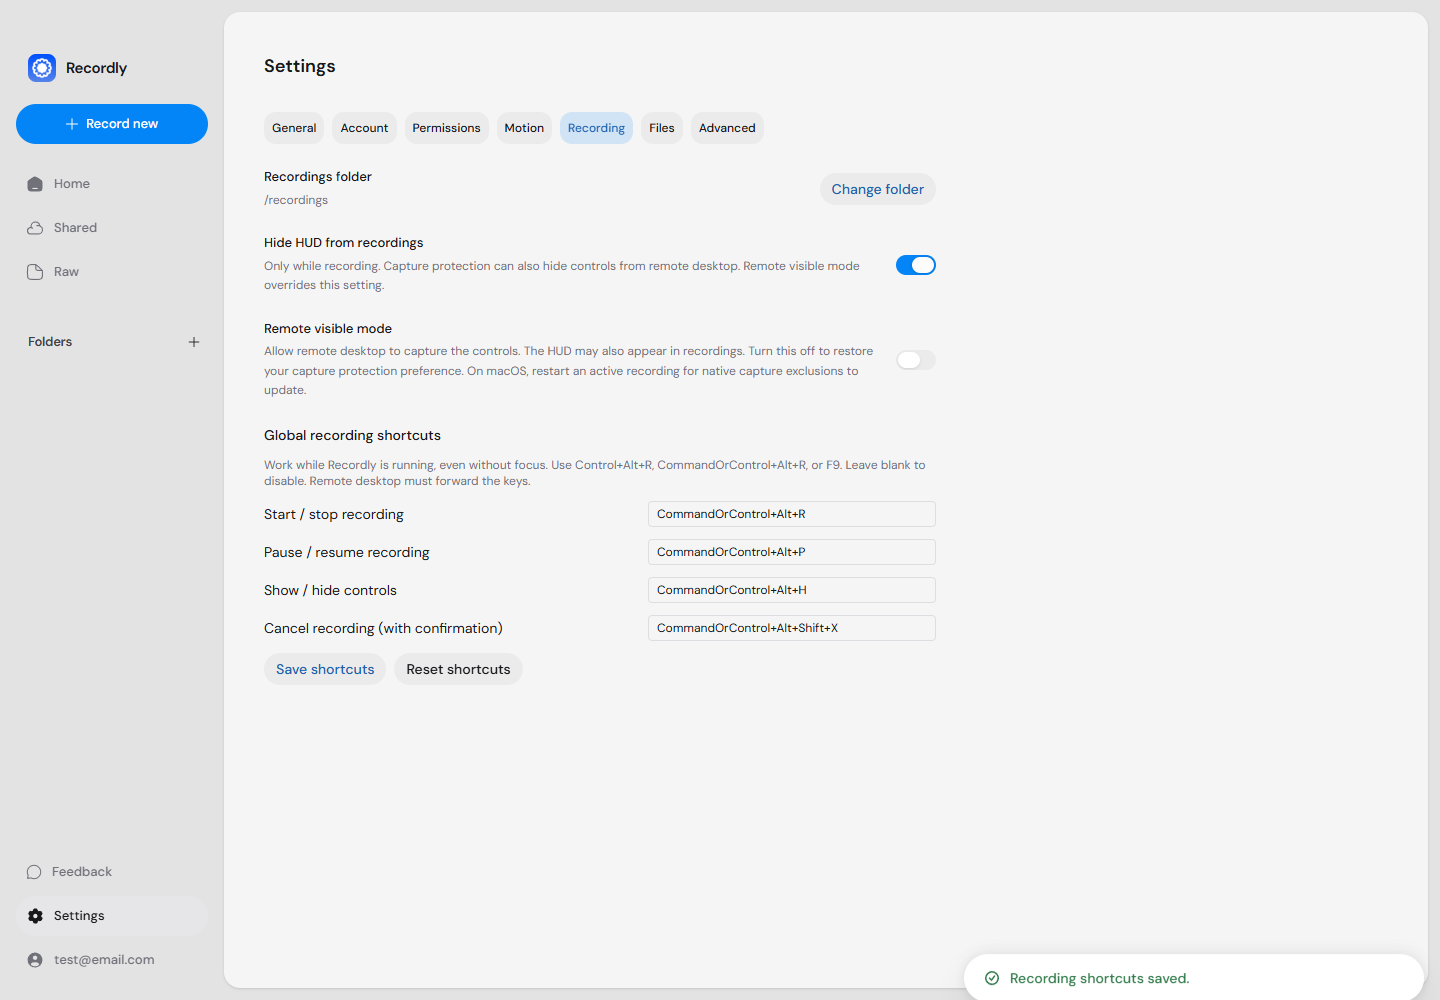
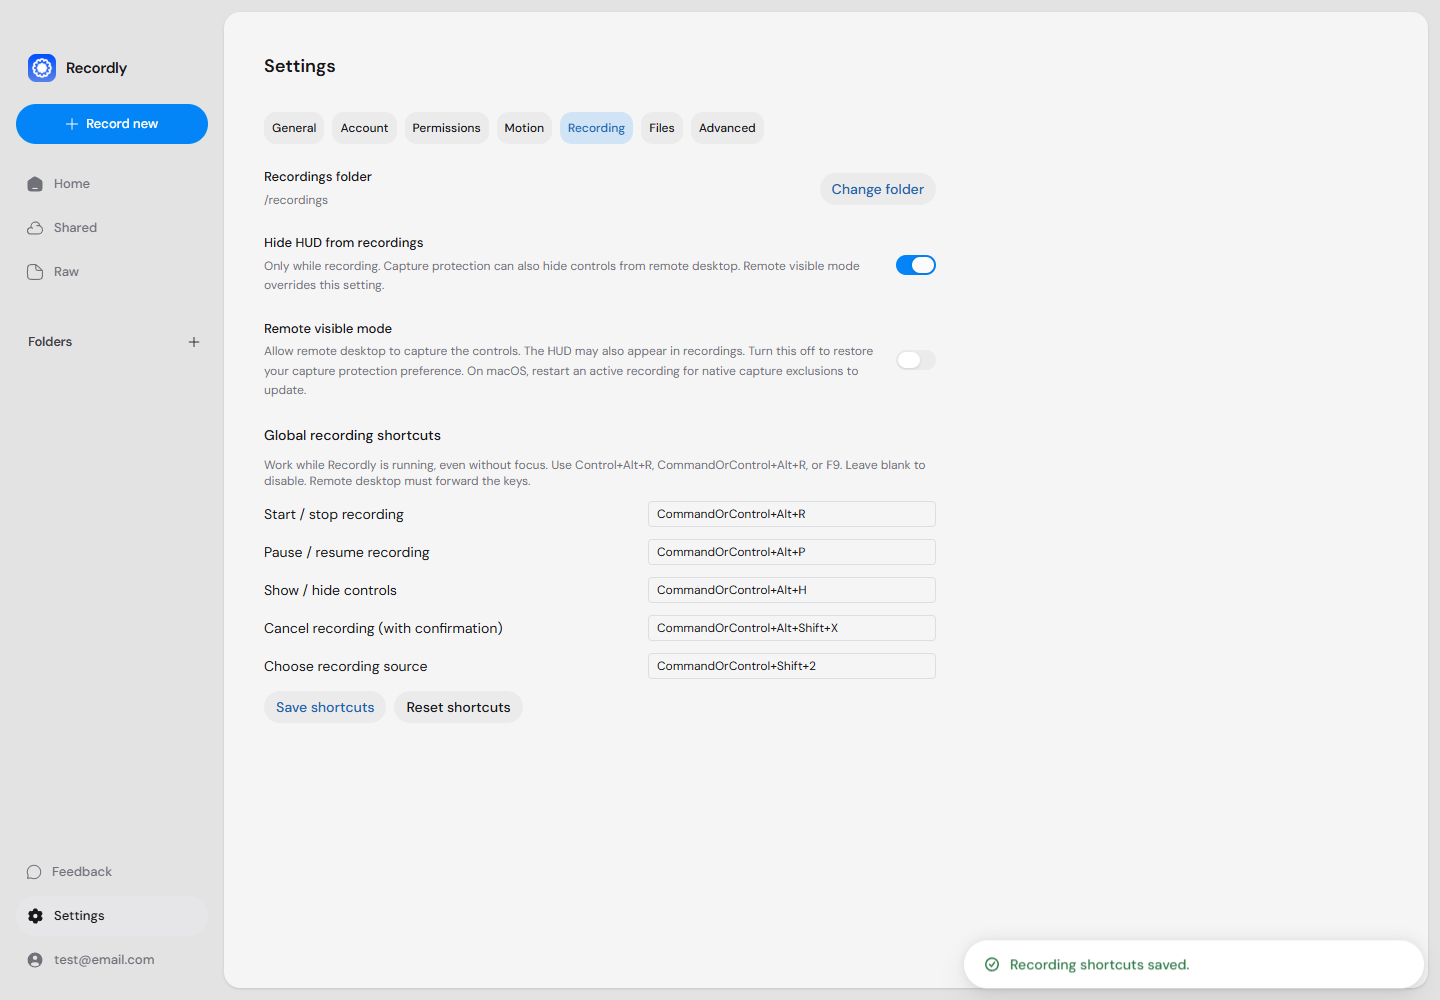
feat(recording): open the existing source picker with a global shortcut

Changed region(s): [[0.6562, 0.961, 1.0, 1.0], [0.1875, 0.651, 0.3438, 0.713], [0.4688, 0.651, 0.5625, 0.682]]

diff --git a/tests/ui/remote-recording.spec.ts b/tests/ui/remote-recording.spec.ts
@@ -1,5 +1,5 @@
 import { expect, type Page, test } from "@playwright/test";
-import { installDesktopBridge } from "./bridge";
+import { installDesktopBridge, installDesktopBridgeOverrides } from "./bridge";
 
 async function openRecordingSettings(page: Page) {
 	await page.getByRole("button", { name: "Home", exact: true }).click();
@@ -44,6 +44,9 @@ test("remote visible mode preserves protection preference and shortcut conflicts
 	await expect(settings.getByRole("switch", { name: "Hide HUD from recordings" })).toBeEnabled();
 	await expect(settings.getByRole("switch", { name: "Hide HUD from recordings" })).toBeChecked();
 	await settings.getByRole("button", { name: "Reset shortcuts" }).click();
+	await expect(settings.getByRole("textbox", { name: "Choose recording source" })).toHaveValue(
+		"CommandOrControl+Shift+2",
+	);
 	await expect(settings.getByRole("textbox", { name: "Start / stop recording" })).toHaveValue(
 		"CommandOrControl+Alt+R",
 	);
@@ -60,6 +63,10 @@ test("HUD shortcut events start, pause, resume and stop through existing capture
 			data[name] = String(Number(data[name] ?? 0) + 1);
 		};
 		Object.assign(window.electronAPI, {
+			pickCaptureTarget: async () => {
+				increment("pickerOpens");
+				return { success: false, canceled: true };
+			},
 			getCountdownDelay: async () => ({ success: true, delay: 0 }),
 			getRecordingPreferences: async () => ({
 				success: true,
@@ -96,10 +103,61 @@ test("HUD shortcut events start, pause, resume and stop through existing capture
 	await command("toggleRecording");
 	await expect(page.locator("html")).toHaveAttribute("data-capture-starts", "1");
 	await expect(page.getByRole("button", { name: "Pause", exact: true })).toBeVisible();
+	await command("openCapturePicker");
+	await expect(page.locator("html")).not.toHaveAttribute("data-picker-opens");
 	await command("togglePause");
 	await expect(page.getByRole("button", { name: "Resume", exact: true })).toBeVisible();
 	await command("togglePause");
 	await expect(page.getByRole("button", { name: "Pause", exact: true })).toBeVisible();
 	await command("toggleRecording");
 	await expect(page.locator("html")).toHaveAttribute("data-capture-stops", "1");
+});
+
+test("source shortcut reuses the source button, coalesces repeated input, and does not record", async ({
+	page,
+}) => {
+	await installDesktopBridge(page);
+	await installDesktopBridgeOverrides(page, () => {
+		window.electronAPI.getPlatform = async () => "win32";
+		window.electronAPI.pickCaptureTarget = async () => {
+			const data = document.documentElement.dataset;
+			data.pickerOpens = String(Number(data.pickerOpens ?? 0) + 1);
+			await new Promise<void>((resolve) =>
+				window.addEventListener("test-complete-picker", () => resolve(), { once: true }),
+			);
+			return {
+				success: true,
+				source: {
+					id: "screen:2:0",
+					name: "External display",
+					display_id: "2",
+					thumbnail: "",
+				},
+			};
+		};
+		window.electronAPI.startNativeScreenRecording = async () => {
+			throw new Error("Selecting must not start capture");
+		};
+	});
+	await page.goto("/?windowType=hud-overlay");
+	const sourceButton = page.getByRole("button", { name: "Choose recording source", exact: true });
+	await expect(sourceButton).toBeEnabled();
+	await page.evaluate(() =>
+		window.dispatchEvent(
+			new CustomEvent("test-recording-shortcut", { detail: "openCapturePicker" }),
+		),
+	);
+	await expect(page.locator("html")).toHaveAttribute("data-picker-opens", "1");
+	await page.evaluate(() => {
+		window.dispatchEvent(
+			new CustomEvent("test-recording-shortcut", { detail: "openCapturePicker" }),
+		);
+		window.dispatchEvent(
+			new CustomEvent("test-recording-shortcut", { detail: "toggleRecording" }),
+		);
+		window.dispatchEvent(new Event("test-complete-picker"));
+	});
+	await expect(sourceButton).toContainText("External display");
+	await expect(page.locator("html")).toHaveAttribute("data-picker-opens", "1");
+	await expect(page.getByRole("button", { name: "Record", exact: true })).toBeEnabled();
 });

diff --git a/src/components/launch/LaunchWindow.tsx b/src/components/launch/LaunchWindow.tsx
@@ -80,38 +80,6 @@ function LaunchWindowContent() {
 	} = useScreenRecorder();
 
 	const { elapsed, formatTime } = useRecordingTimer(recording, paused);
-	const shortcutInFlight = useRef(false);
-	useEffect(
-		() =>
-			window.electronAPI?.onRecordingShortcut?.((action) => {
-				if (shortcutInFlight.current || finalizing || countdownActive) return;
-				shortcutInFlight.current = true;
-				void (async () => {
-					try {
-						if (action === "toggleRecording") await toggleRecording();
-						else if (action === "togglePause" && recording) {
-							if (paused) await resumeRecording();
-							else await pauseRecording();
-						} else if (action === "cancelRecording" && recording)
-							await cancelRecording();
-					} catch (error) {
-						toast.error(String(error));
-					} finally {
-						shortcutInFlight.current = false;
-					}
-				})();
-			}),
-		[
-			recording,
-			paused,
-			finalizing,
-			countdownActive,
-			toggleRecording,
-			pauseRecording,
-			resumeRecording,
-			cancelRecording,
-		],
-	);
 	const hudContentRef = useRef<HTMLDivElement>(null);
 	const hudBarRef = useRef<HTMLDivElement>(null);
 
@@ -238,6 +206,41 @@ function LaunchWindowContent() {
 		beginInteractiveHudAction,
 		syncSelectedSource,
 	]);
+
+	const shortcutInFlight = useRef(false);
+	useEffect(
+		() =>
+			window.electronAPI?.onRecordingShortcut?.((action) => {
+				if (shortcutInFlight.current || finalizing || countdownActive) return;
+				shortcutInFlight.current = true;
+				void (async () => {
+					try {
+						if (action === "openCapturePicker") await handlePickOnScreen();
+						else if (action === "toggleRecording") await toggleRecording();
+						else if (action === "togglePause" && recording) {
+							if (paused) await resumeRecording();
+							else await pauseRecording();
+						} else if (action === "cancelRecording" && recording)
+							await cancelRecording();
+					} catch (error) {
+						toast.error(String(error));
+					} finally {
+						shortcutInFlight.current = false;
+					}
+				})();
+			}),
+		[
+			recording,
+			paused,
+			finalizing,
+			countdownActive,
+			handlePickOnScreen,
+			toggleRecording,
+			pauseRecording,
+			resumeRecording,
+			cancelRecording,
+		],
+	);
 
 	useEffect(() => {
 		let mounted = true;

diff --git a/electron/recordingShortcuts.test.ts b/electron/recordingShortcuts.test.ts
@@ -44,7 +44,7 @@ describe("recording shortcut lifecycle", () => {
 		mocks.register.mock.calls[1][1]();
 		expect(dispatch).toHaveBeenCalledWith("togglePause");
 		mocks.quit.mock.calls[0][1]();
-		expect(mocks.unregister).toHaveBeenCalledTimes(4);
+		expect(mocks.unregister).toHaveBeenCalledTimes(5);
 	});
 	it("reports OS conflicts without claiming success for unavailable keys", () => {
 		mocks.register.mockReturnValueOnce(false);
@@ -61,7 +61,7 @@ describe("recording shortcut lifecycle", () => {
 			}),
 		);
 		registerRecordingShortcuts(vi.fn());
-		expect(mocks.register).toHaveBeenCalledTimes(3);
+		expect(mocks.register).toHaveBeenCalledTimes(4);
 		expect(mocks.register).toHaveBeenCalledWith("F9", expect.any(Function));
 	});
 	it("leaves active bindings intact on invalid input or failed persistence", () => {
@@ -88,7 +88,7 @@ describe("recording shortcut lifecycle", () => {
 		const result = mocks.handlers.get("set-recording-shortcuts")!({}, settings);
 		expect(result).toMatchObject({ success: true, errors: [], settings });
 		expect(mocks.rename).toHaveBeenCalled();
-		expect(mocks.unregister).toHaveBeenCalledTimes(4);
+		expect(mocks.unregister).toHaveBeenCalledTimes(5);
 	});
 	it("does not silently enable defaults over a corrupt configuration", () => {
 		mocks.exists.mockReturnValue(true);

diff --git a/electron/recordingShortcutDispatch.test.ts b/electron/recordingShortcutDispatch.test.ts
@@ -18,6 +18,18 @@ function setup() {
 	return { hud, deps, dispatch: createRecordingShortcutDispatcher(deps) };
 }
 describe("global recording shortcut routing", () => {
+	it("restores the HUD and dispatches the existing source picker only while idle", async () => {
+		const { hud, deps, dispatch } = setup();
+		await dispatch("openCapturePicker");
+		expect(deps.showHud).not.toHaveBeenCalled();
+		deps.getRecordingSession.mockReturnValue(null);
+		await dispatch("openCapturePicker");
+		expect(deps.showHud).toHaveBeenCalledOnce();
+		expect(hud.webContents.send).toHaveBeenCalledWith(
+			"recording-shortcut",
+			"openCapturePicker",
+		);
+	});
 	it("sends commands to the capture owner while its HUD is hidden", async () => {
 		const { hud, dispatch } = setup();
 		await dispatch("toggleRecording");

diff --git a/src/lib/recordingShortcuts.ts b/src/lib/recordingShortcuts.ts
@@ -3,6 +3,7 @@ export const DEFAULT_RECORDING_SHORTCUTS = {
 	togglePause: "CommandOrControl+Alt+P",
 	toggleHud: "CommandOrControl+Alt+H",
 	cancelRecording: "CommandOrControl+Alt+Shift+X",
+	openCapturePicker: "CommandOrControl+Shift+2",
 };
 
 export type RecordingShortcutAction = keyof typeof DEFAULT_RECORDING_SHORTCUTS;
@@ -17,6 +18,7 @@ export const RECORDING_SHORTCUT_LABELS: Record<RecordingShortcutAction, string> 
 	togglePause: "Pause / resume recording",
 	toggleHud: "Show / hide controls",
 	cancelRecording: "Cancel recording (with confirmation)",
+	openCapturePicker: "Choose recording source",
 };
 
 // A deliberately small accelerator grammar makes configuration errors explicit.

diff --git a/electron/recordingShortcutDispatch.ts b/electron/recordingShortcutDispatch.ts
@@ -21,6 +21,10 @@ export function createRecordingShortcutDispatcher(deps: {
 			return;
 		}
 		if (confirming) return;
+		if (action === "openCapturePicker") {
+			if (deps.getRecordingSession() !== null) return;
+			deps.showHud();
+		}
 		if (action === "cancelRecording") {
 			const session = deps.getRecordingSession();
 			if (session === null) return;

diff --git a/tests/ui/bridge.ts b/tests/ui/bridge.ts
@@ -31,6 +31,7 @@ export async function installDesktopBridge(
 								togglePause: "CommandOrControl+Alt+P",
 								toggleHud: "CommandOrControl+Alt+H",
 								cancelRecording: "CommandOrControl+Alt+Shift+X",
+								openCapturePicker: "CommandOrControl+Shift+2",
 							}),
 					),
 					errors: [],

diff --git a/docs/remote-recording.md b/docs/remote-recording.md
@@ -25,10 +25,17 @@ before starting. Normal sign-in and capture permission requirements still apply.
 
 | Action | Windows / Linux default | macOS default |
 | --- | --- | --- |
+| Choose recording source | Ctrl+Shift+2 | Cmd+Shift+2 |
 | Start / stop recording | Ctrl+Alt+R | Cmd+Option+R |
 | Pause / resume | Ctrl+Alt+P | Cmd+Option+P |
 | Show / hide HUD | Ctrl+Alt+H | Cmd+Option+H |
 | Cancel and discard, with confirmation | Ctrl+Alt+Shift+X | Cmd+Option+Shift+X |
+
+The source shortcut restores the HUD and opens the same picker as its source
+button. It selects only; use Start / stop afterward to record. It is ignored while
+recording, counting down, or finalizing. Windows selects a screen or window;
+macOS also supports area selection. Linux uses its existing source-list/portal flow.
+It does not add a screenshot/GIF/MP4 selection toolbar.
 
 Showing the HUD does not disable capture protection. Enable remote visible mode if
 the HUD is still absent from the remote stream. Pause/resume is ignored while idle;
